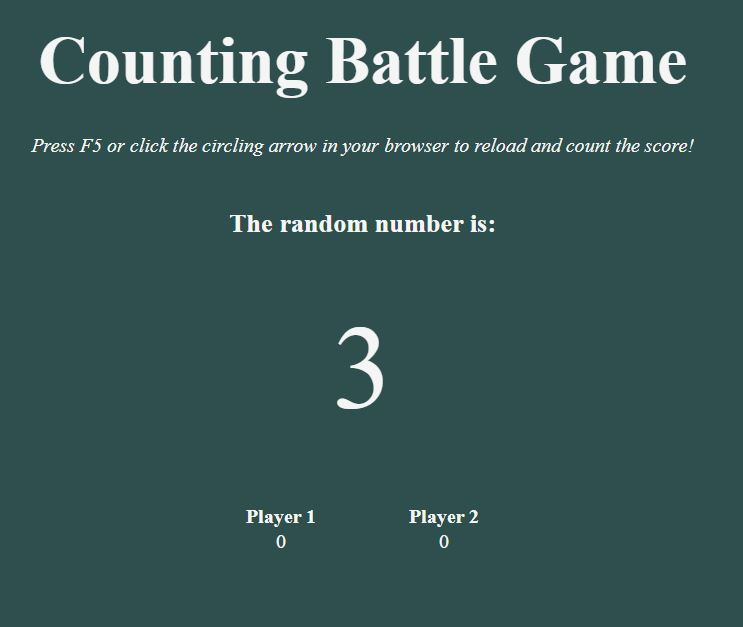
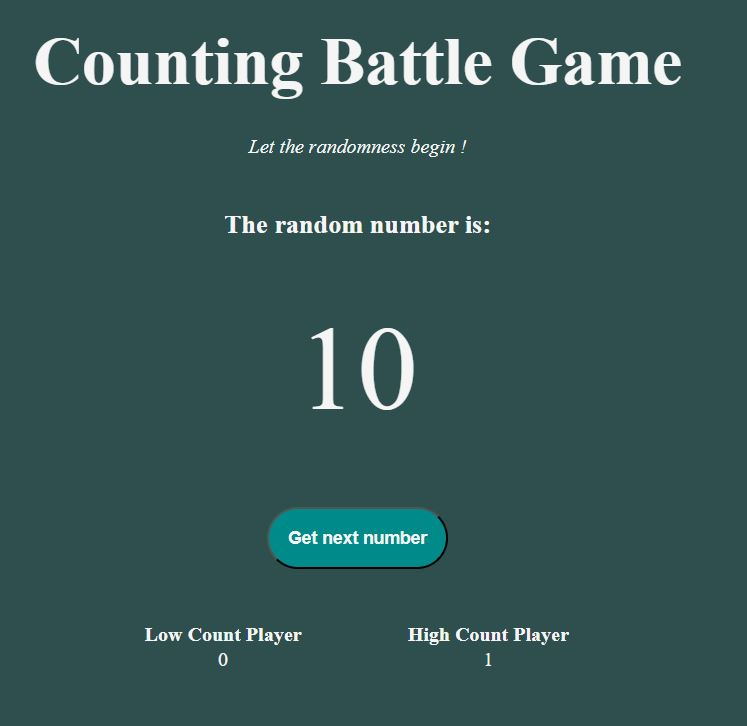
Button added, minor logical and styling changes

diff --git a/counting-battle/style.css b/counting-battle/style.css
@@ -25,8 +25,17 @@ h2 {
     font-size: 6rem;
 }
 
+button {
+    padding: 15px;
+    margin-bottom: 2em;
+    border-radius: 30px;
+    background-color: darkcyan;
+    font-size: 14px;
+    font-weight: 700;
+}
+
 table {
-    width: 50%;
+    width: 80%;
     padding: 5px;
 }
 

diff --git a/counting-battle/index.php b/counting-battle/index.php
@@ -6,6 +6,13 @@
         return mt_rand(1, 10); //better performance and randomness
     }
 
+    //Check if 'new game' is clicked and reset score else keep score
+    if (isset($_POST['action']) && isset($_SESSION['winner'])) {
+        $_SESSION['player1'] = 0;
+        $_SESSION['player2'] = 0;
+        unset($_SESSION['winner']);
+    }
+
     $randomNumber = generateRandomNumber();
 
     //score count
@@ -23,12 +30,11 @@
     $winner = null;
 
     // assign winner variable
-    $winner = ($_SESSION['player1'] >= 10) ? 'Spiller 1' : (($_SESSION['player2'] >= 10) ? 'Spiller 2' : null);
+    $winner = ($_SESSION['player1'] >= 10) ? 'Low Count Player' : (($_SESSION['player2'] >= 10) ? 'High Count Player' : null);
 
-    // reset score if there is a winner
+    // save winner in session
     if ($winner) {
-        $_SESSION['player1'] = 0;
-        $_SESSION['player2'] = 0;
+        $_SESSION['winner'] = true;
     }
 ?>
 
@@ -40,32 +46,31 @@
     <meta name="viewport" content="width=device-width, initial-scale=1.0">
     <title>Counting Battle</title>
     <link rel="stylesheet" href="style.css">
-
-    <!-- Popup code -->
-    <script>
-        function showWinnerPopup() {
-            var winner = "<?php echo $winner; ?>";
-            if (winner) {
-                alert(winner + " won the game!");
-            }
-        }
-    </script>
 </head>
 <body>
     <section>
         <h1>Counting Battle Game</h1>
-        <p><i>Press F5 or click the circling arrow in your browser to reload and count the score!</i></p>
+        <p><i>Let the randomness begin !</i></p>
         <h2>The random number is:</h2> 
         <p id="number"> <?php echo $randomNumber; ?> </p>
+        <p><?php if($winner) {
+            echo "The winner is \"<b>$winner</b>\""; } ?></p>
         
+        <form method="post">
+            <button type="submit" name="action">
+                <?php if (!$winner) {
+                    echo "Get next number";
+                } else if ($winner) {
+                    echo "Start new game";
+                } ?>
+            </button>
+        </form>
+
         <table>
-<!--        <caption>
-                Player score
-            </caption> -->
             <thead>
                 <tr>
-                    <th>Player 1</th>
-                    <th>Player 2</th>
+                    <th>Low Count Player</th>
+                    <th>High Count Player</th>
                 </tr>
             </thead>
             <tbody>
@@ -76,11 +81,5 @@
             </tbody>
         </table>
     </section>
-
-    <!-- Popup message -->
-    <script>
-        showWinnerPopup();
-    </script>
-
 </body>
 </html>
